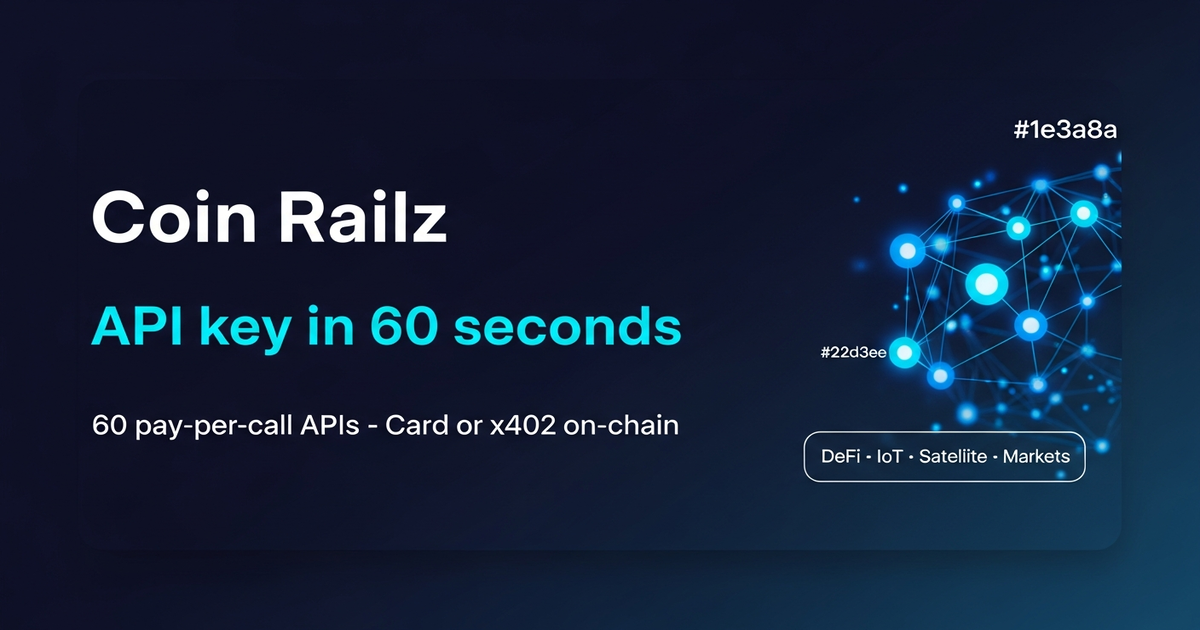
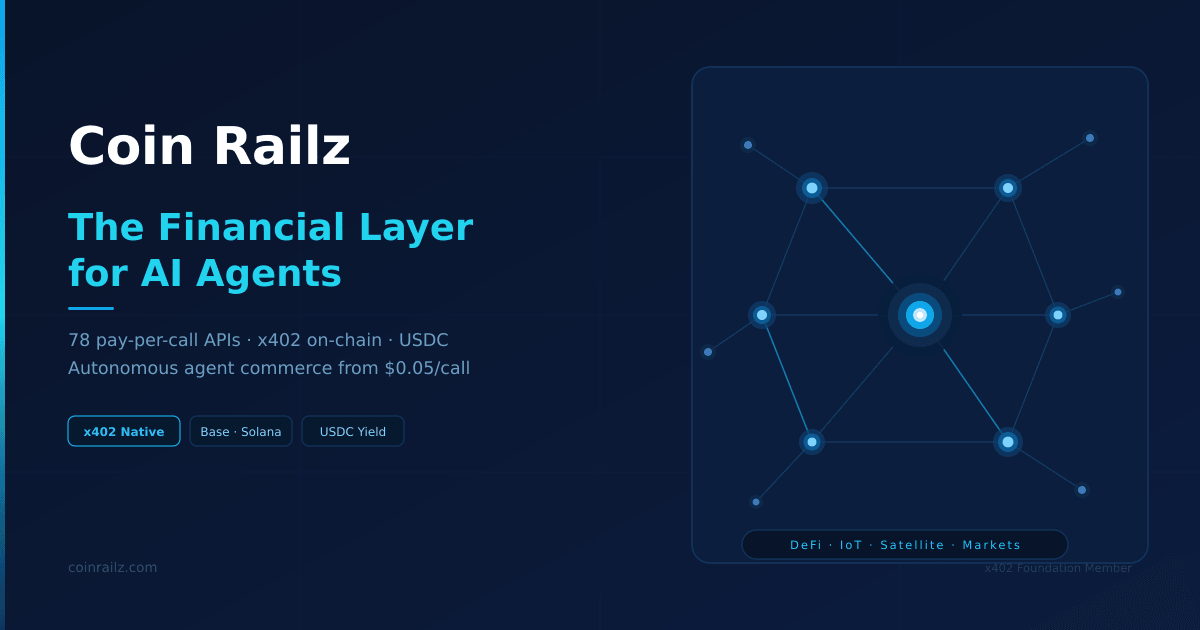
Update site metadata and assets
Replit-Commit-Author: Agent

diff --git a/client/index.html b/client/index.html
@@ -21,7 +21,7 @@
     <meta property="og:url" content="https://coinrailz.com/" />
     <meta property="og:title" content="Coin Railz | Payment Infrastructure for AI Agents — x402 + USDC Yield Vault" />
     <meta property="og:description" content="Let your agents buy DeFi, IoT, satellite data, and prediction markets autonomously — and earn yield on idle USDC via ERC-4626 vault on Base (Aave/Compound/Morpho). API key in ~60 seconds. From $0.05/call." />
-    <meta property="og:image" content="https://coinrailz.com/og-image.png?v=20260314" />
+    <meta property="og:image" content="https://coinrailz.com/og-image.png?v=20260728" />
     <meta property="og:image:width" content="1200" />
     <meta property="og:image:height" content="630" />
     <meta property="og:site_name" content="Coin Railz" />
@@ -32,7 +32,7 @@
     <meta name="twitter:url" content="https://coinrailz.com/" />
     <meta name="twitter:title" content="Coin Railz | Payment Infrastructure for AI Agents — x402 + USDC Yield Vault" />
     <meta name="twitter:description" content="Let your agents buy DeFi, IoT, satellite data, and prediction markets autonomously — and earn yield on idle USDC via ERC-4626 vault on Base (Aave/Compound/Morpho). API key in ~60 seconds. From $0.05/call." />
-    <meta name="twitter:image" content="https://coinrailz.com/og-image.png?v=20260314" />
+    <meta name="twitter:image" content="https://coinrailz.com/og-image.png?v=20260728" />
     <meta name="twitter:creator" content="@coinrailz" />
     <meta name="twitter:site" content="@coinrailz" />
     

diff --git a/server/index.ts b/server/index.ts
@@ -97,7 +97,7 @@ if (isProduction) {
     } catch {
       fallbackHtml = `<!DOCTYPE html><html><head><title>Coin Railz</title>
 <meta property="og:title" content="Coin Railz - Micropayment Rail for AI Agents">
-<meta property="og:image" content="https://coinrailz.com/og-image.png">
+<meta property="og:image" content="https://coinrailz.com/og-image.png?v=20260728">
 <meta property="og:image:width" content="1200"><meta property="og:image:height" content="630">
 </head><body><p>Loading...</p></body></html>`;
       console.log('⚠ Using minimal fallback HTML (index.html not found)');

diff --git a/server/ssrMetaRoutes.ts b/server/ssrMetaRoutes.ts
@@ -93,7 +93,7 @@ interface RouteSSRConfig {
 }
 
 const BASE_URL = 'https://coinrailz.com';
-const OG_IMAGE = `${BASE_URL}/og-image.png?v=20260314`;
+const OG_IMAGE = `${BASE_URL}/og-image.png?v=20260728`;
 
 const SSR_ROUTES: Record<string, RouteSSRConfig> = {
   '/': {
